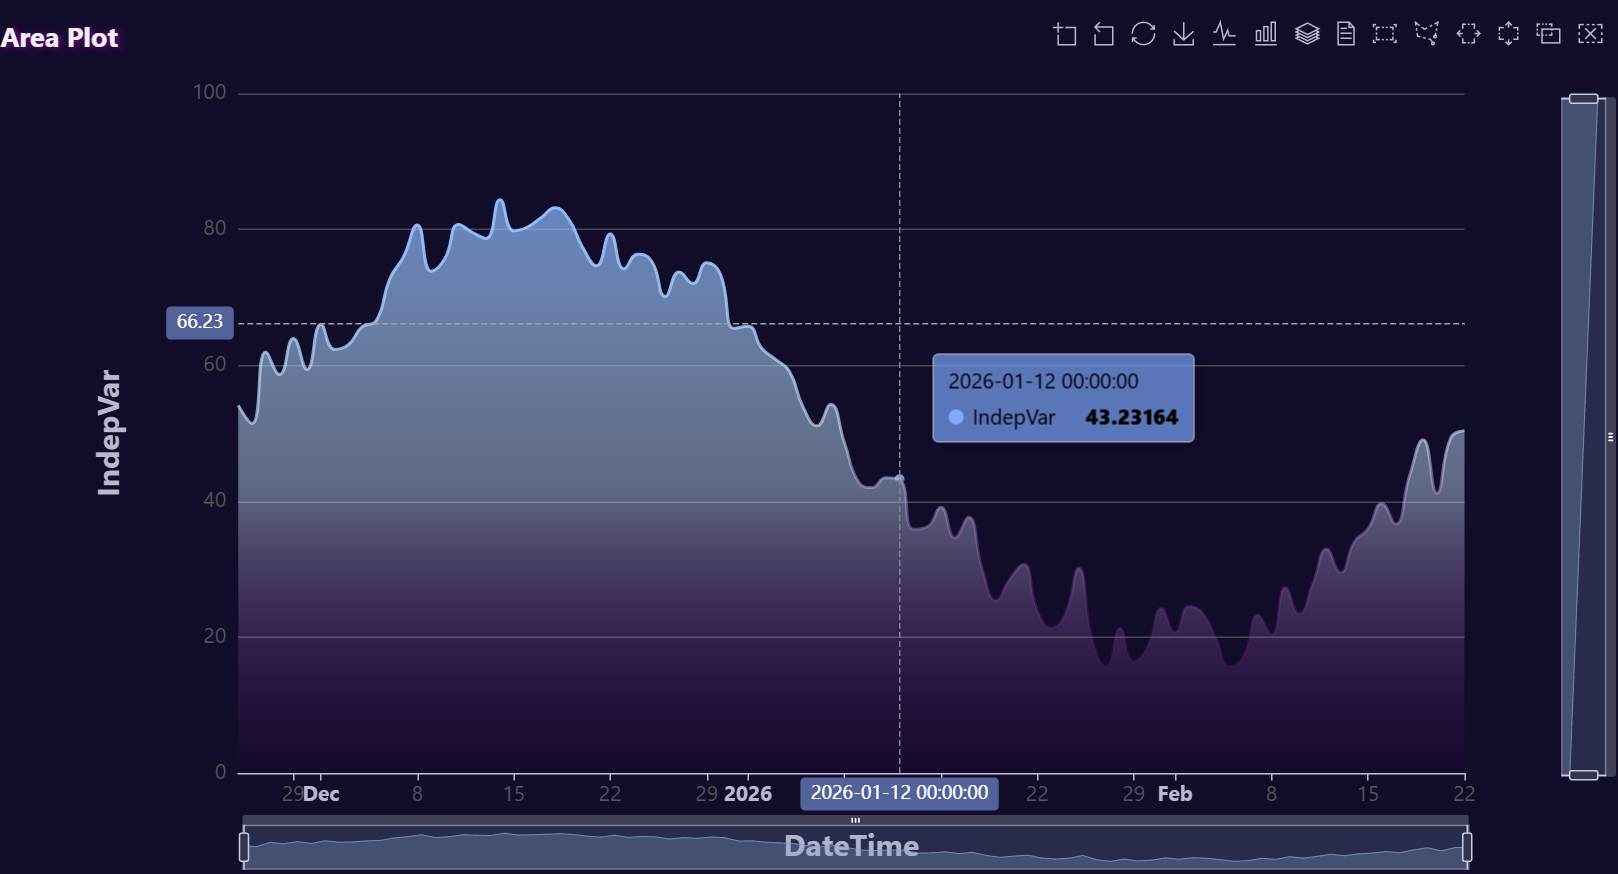
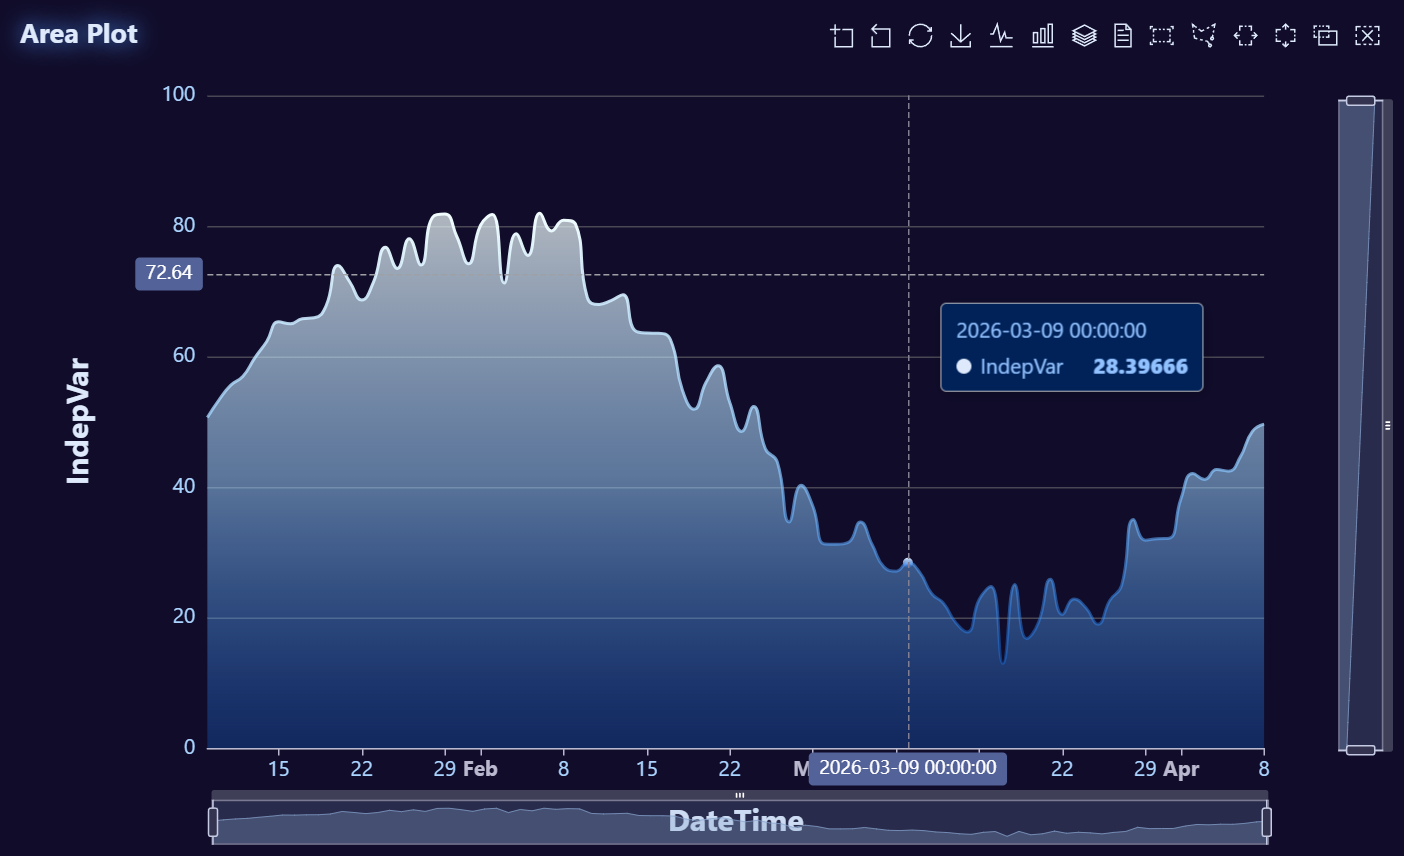
Update README

diff --git a/README.md b/README.md
@@ -151,22 +151,35 @@ data[, IndepVar := 50 +
 data[IndepVar < 0, IndepVar := 0]
 
 # Build plot
+# Build plot
 AutoPlots::Area(
   dt = data,
   XVar = "DateTime",
   YVar = "IndepVar",
-  areaStyle.color = c("#80AAFF","#BDD5FF","#8B008B"),
-  areaStyle.opacity = c(1,0.6,0.05),
+  areaStyle.color = c("#DEEAFC","#91C1FF","#1474FF"),
+  areaStyle.opacity = c(1.0,0.75,0.35),
   legend.show = FALSE,
-  title.textStyle.textShadowColor = "purple",
-  title.textStyle.textShadowBlur = 4,
-  title.textStyle.textShadowOffsetX = 2,
-  title.textStyle.textShadowOffsetY = 1,
+  title.textStyle.color = "#DEEAFC",
+  title.textStyle.textShadowColor = "#5298FF",
+  title.textStyle.textShadowBlur = 15,
+  title.textStyle.textShadowOffsetX = 0,
+  title.textStyle.textShadowOffsetY = 0,
+  title.top = 12,
+  title.left = 12,
+  title.padding = c(4,4,10,4),
+  title.itemGap = 6,
   yAxis.nameTextStyle.fontSize = 20,
   yAxis.nameTextStyle.padding = 60,
   xAxis.nameTextStyle.fontSize = 20,
-  tooltip.backgroundColor = "#80AAFFAA",
-  tooltip.textStyle.color = "black"
+  tooltip.backgroundColor = "#002259",
+  tooltip.textStyle.color = "#91C1FF",
+  xAxis.nameTextStyle.color = "#DEEAFC",
+  yAxis.nameTextStyle.color = "#DEEAFC",
+  xAxis.axisLabel.color = "#ABD5FF",
+  yAxis.axisLabel.color = "#ABD5FF",
+  xAxis.axisLabel.overflow = "truncate",
+  toolbox.iconStyle.borderColor = "#DEEAFC",
+  toolbox.emphasis.iconStyle.borderColor = "#5E8DD1"
 )
 
 ```